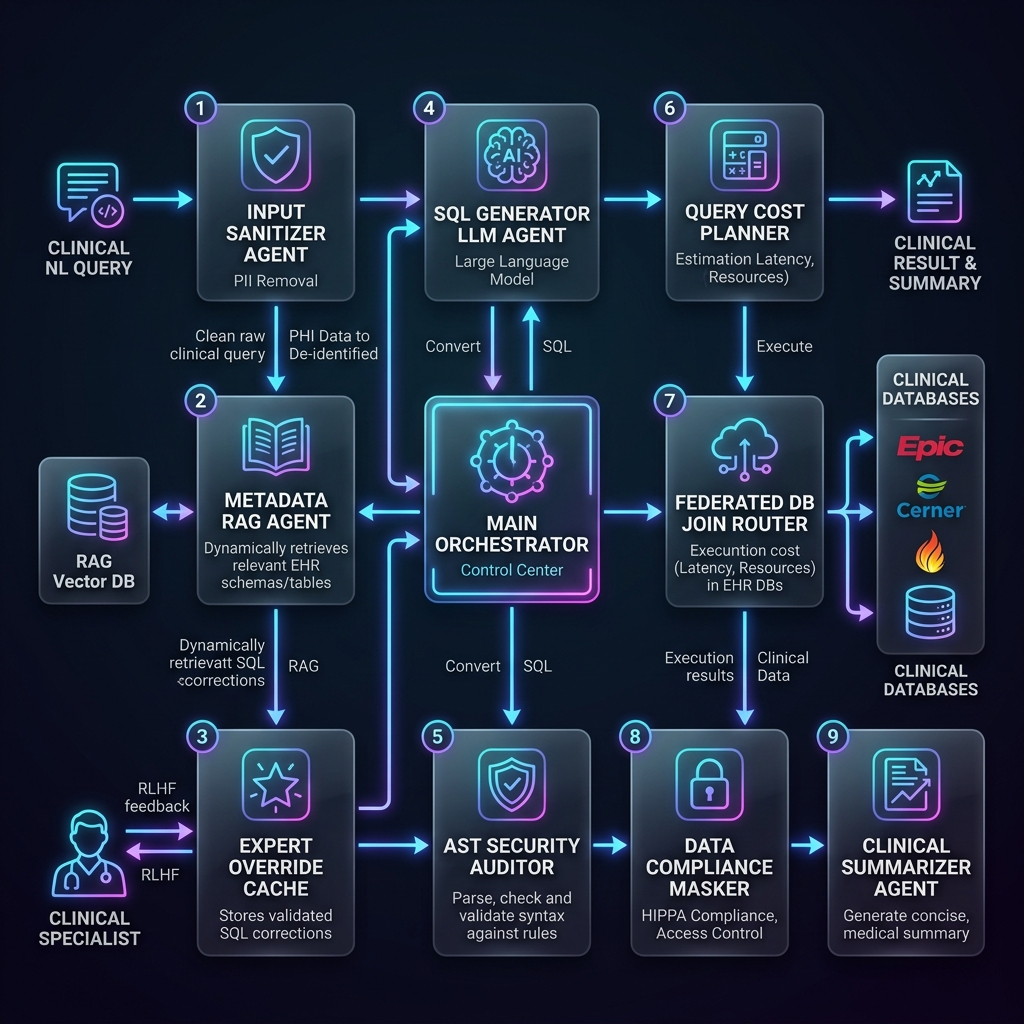
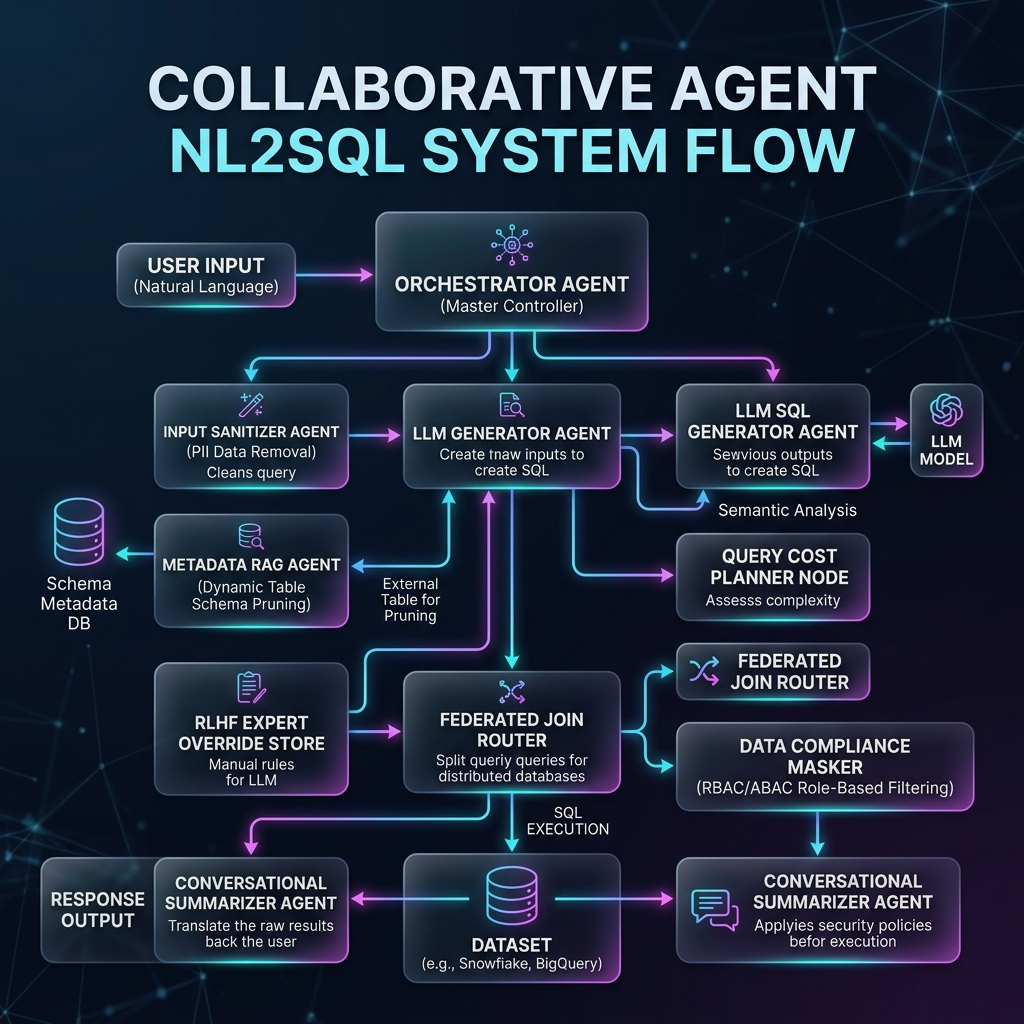
docs: make architecture diagrams and text generic and domain-independent

diff --git a/architecture.md b/architecture.md
@@ -1,6 +1,6 @@
 # System Architecture & API Catalog
 
-This document details the agentic architecture, compliance framework, and backend API endpoints of the EHR NL2SQL Query System.
+This document details the agentic architecture, compliance framework, and backend API endpoints of the NL2SQL Query System.
 
 ![System Architecture Diagram](screenshots/architecture_diagram.png)
 
@@ -75,15 +75,15 @@ To achieve reliable database translation, security, and optimization, the system
 
 ![Specialist Agents Flow Diagram](screenshots/agents_flow_diagram.png)
 
-1. **Input Sanitizer Agent**: Strips names, phone numbers, and SSNs from natural language queries, swapping them with variables to preserve clinical privacy.
+1. **Input Sanitizer Agent**: Strips names, phone numbers, and SSNs from natural language queries, swapping them with variables to preserve data privacy.
 2. **Metadata RAG Agent**: Dynamically indexes the database catalog and pulls relevant tables/ddls to reduce prompt overhead.
 3. **RLHF Override Cache**: Intercepts queries to check if an expert analyst has previously registered a manual SQL correction.
 4. **SQL Generator LLM Agent**: Translates schema contexts, previous errors, and queries into syntactically valid SQL.
 5. **AST Security Auditor**: Audits generated queries using Abstract Syntax Trees to reject any data manipulation commands (`DROP`, `ALTER`, `DELETE`, etc.).
 6. **Query Cost Planner**: Explains SQL queries to block high-cost table scans or cartesian products.
 7. **Federated Query Router**: Decomposes cross-boundary joins, performs semi-join pushdowns, and joins database datasets client-side.
-8. **Compliance Data Masker**: Masks columns containing sensitive data (e.g. email, phone numbers) based on ABAC permissions (e.g. researcher, doctor roles).
-9. **Clinical Summarizer Agent**: Distills masked raw tables into user-friendly clinical summaries.
+8. **Compliance Data Masker**: Masks columns containing sensitive data (e.g. email, phone numbers) based on ABAC permissions (e.g. dynamic user roles).
+9. **Conversational Summarizer Agent**: Distills masked raw tables into user-friendly natural language summaries.
 
 ---
 
@@ -93,8 +93,8 @@ The compliance layer (`backend/semantic_layer.py`) governs data redaction based 
 
 1.  **Clearance Roles**:
     *   `admin`: Unrestricted database access and configuration privileges.
-    *   `doctor`: Field-level masking rules (e.g., financial columns redacted). Applies **ABAC (Attribute-Based Access Control)** matching patient departments to the doctor's department (unmatched patient fields are masked).
-    *   `researcher`: Column-level masking rules (e.g., `pii_name` masked with initials, `pii_dob` masked, phone and email masked, financial fields redacted).
+    *   `Restricted Role`: Field-level masking rules (e.g., financial columns redacted). Applies **ABAC (Attribute-Based Access Control)** matching organizational metadata to the user's specific access attributes (unmatched fields are masked).
+    *   `Analyst Role`: Column-level masking rules (e.g., identity names masked with initials, dates of birth masked, phone and email masked, financial fields redacted).
 2.  **Audit Ledger**:
     *   `backend/audit_ledger.py` records every executed query in `backend/audit_ledger.db` with columns for username, role, latency, prompt, SQL statement, and result hashes.
     *   The ledger maintains an **immutable cryptographic hash chain** (similar to a blockchain block registry) to prevent tampering.
